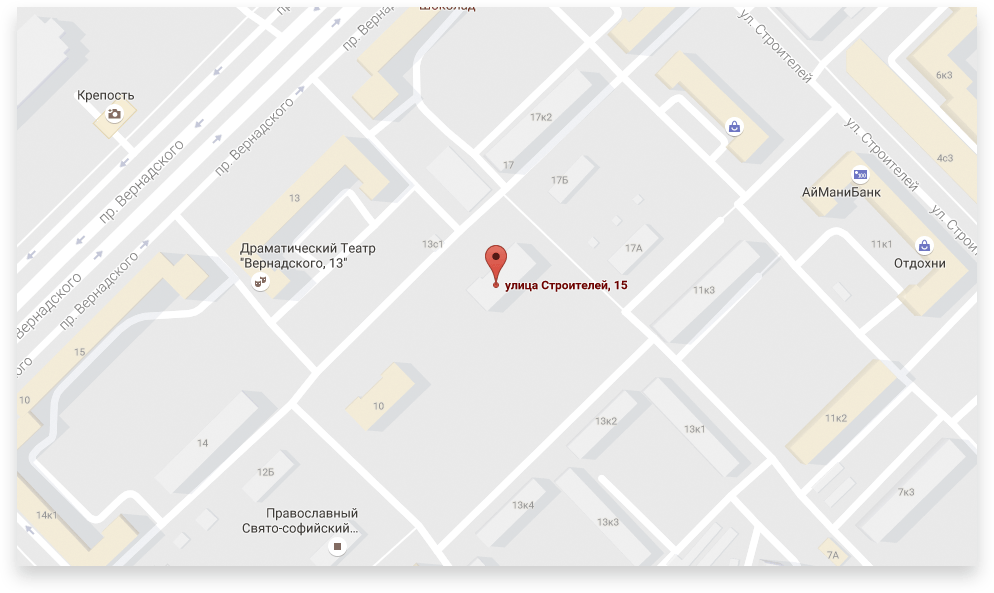
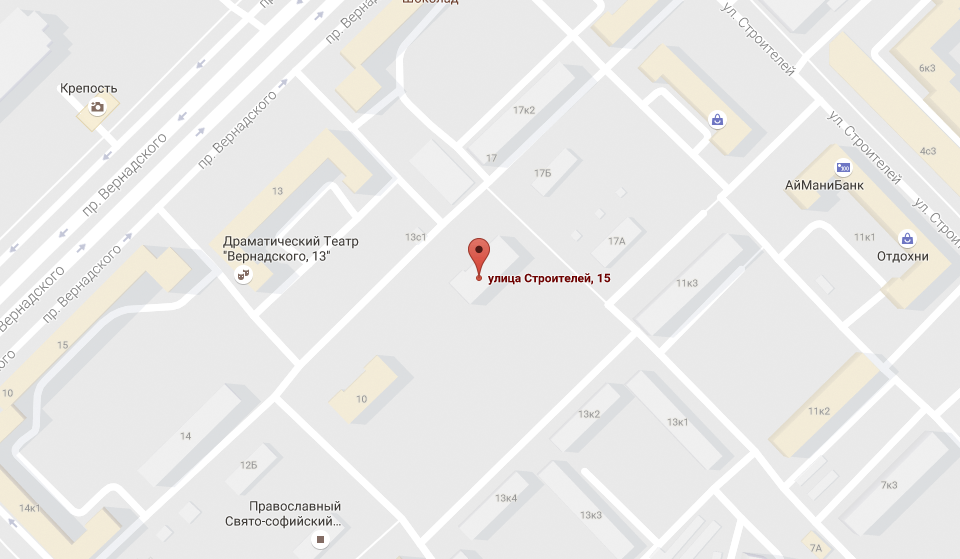
Разметка главной с учетом доступности

diff --git a/index.html b/index.html
@@ -203,7 +203,7 @@
         <div class="сontacts">
           <h3>Контакты</h3>
           <p>Огромный выбор гаджетов не оставит равнодушным гика, который есть в каждом из нас.</p>
-          <!-- Здесь будет карта -->
+          <p><img src="img/map.png" alt="улица Строителей, 15" width="560" height="222"></p>
           <button>Напишите нам</button>
         </div>
       </section>
@@ -235,14 +235,27 @@
     </footer>
     <section class="modal map">
       <h2>Карта</h2>
-      <!--здесь будет карта-->
-      <span>x</span>
+      <p>
+        <img src="img/map-big.png" alt="улица Строителей, 15" width="960" height="559">
+      </p>
+      <button class="modal-close" type="button">Закрыть</button>
     </section>
     <section class="modal login">
       <h2>Форма ввода</h2>
-      <!--здесь будет форма-->
-      <span>x</span>
-      <input type="submit">
+      <form class="appointment-form" action="https://echo.htmlacademy.ru" method="post">
+        <p>
+          <label for="appointment-name">Ваше имя:</label>
+          <input id="appointment-name" type="text" name="name" value="" placeholder="Представьтесь, пожалуйста">
+          <label for="appointment-e-mail">Ваш e-mail:</label>
+          <input id="appointment-e-mail" type="text" name="e-mail" value="" placeholder="Для отправки ответа">
+        </p>
+        <p>
+          <label for="appointment-free-text">Текст письма:</label>
+          <textarea id="appointment-free-text" name="free-text" cols="30" rows="10" placeholder="В свободной форме"></textarea>
+        </p>
+        <button class="button" type="submit">Отправить</button>
+      </form>
+      <button class="modal-close" type="button">Закрыть</button>
     </section>
   </body>
 </html>
